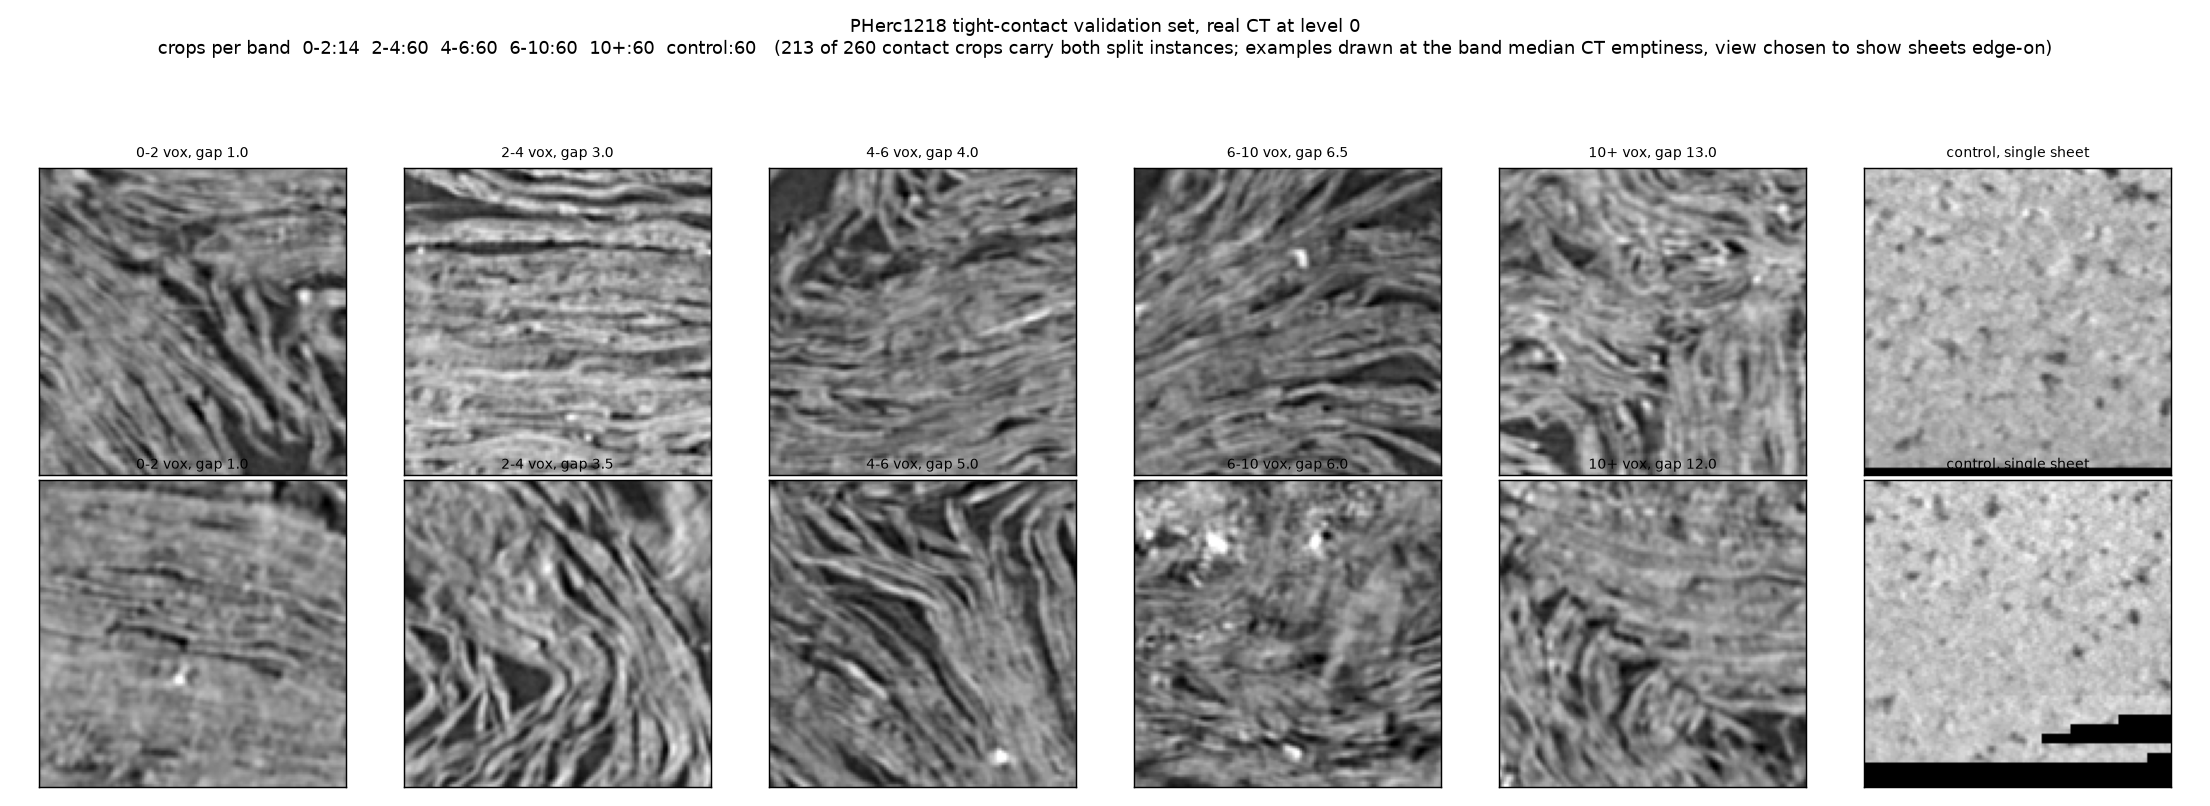
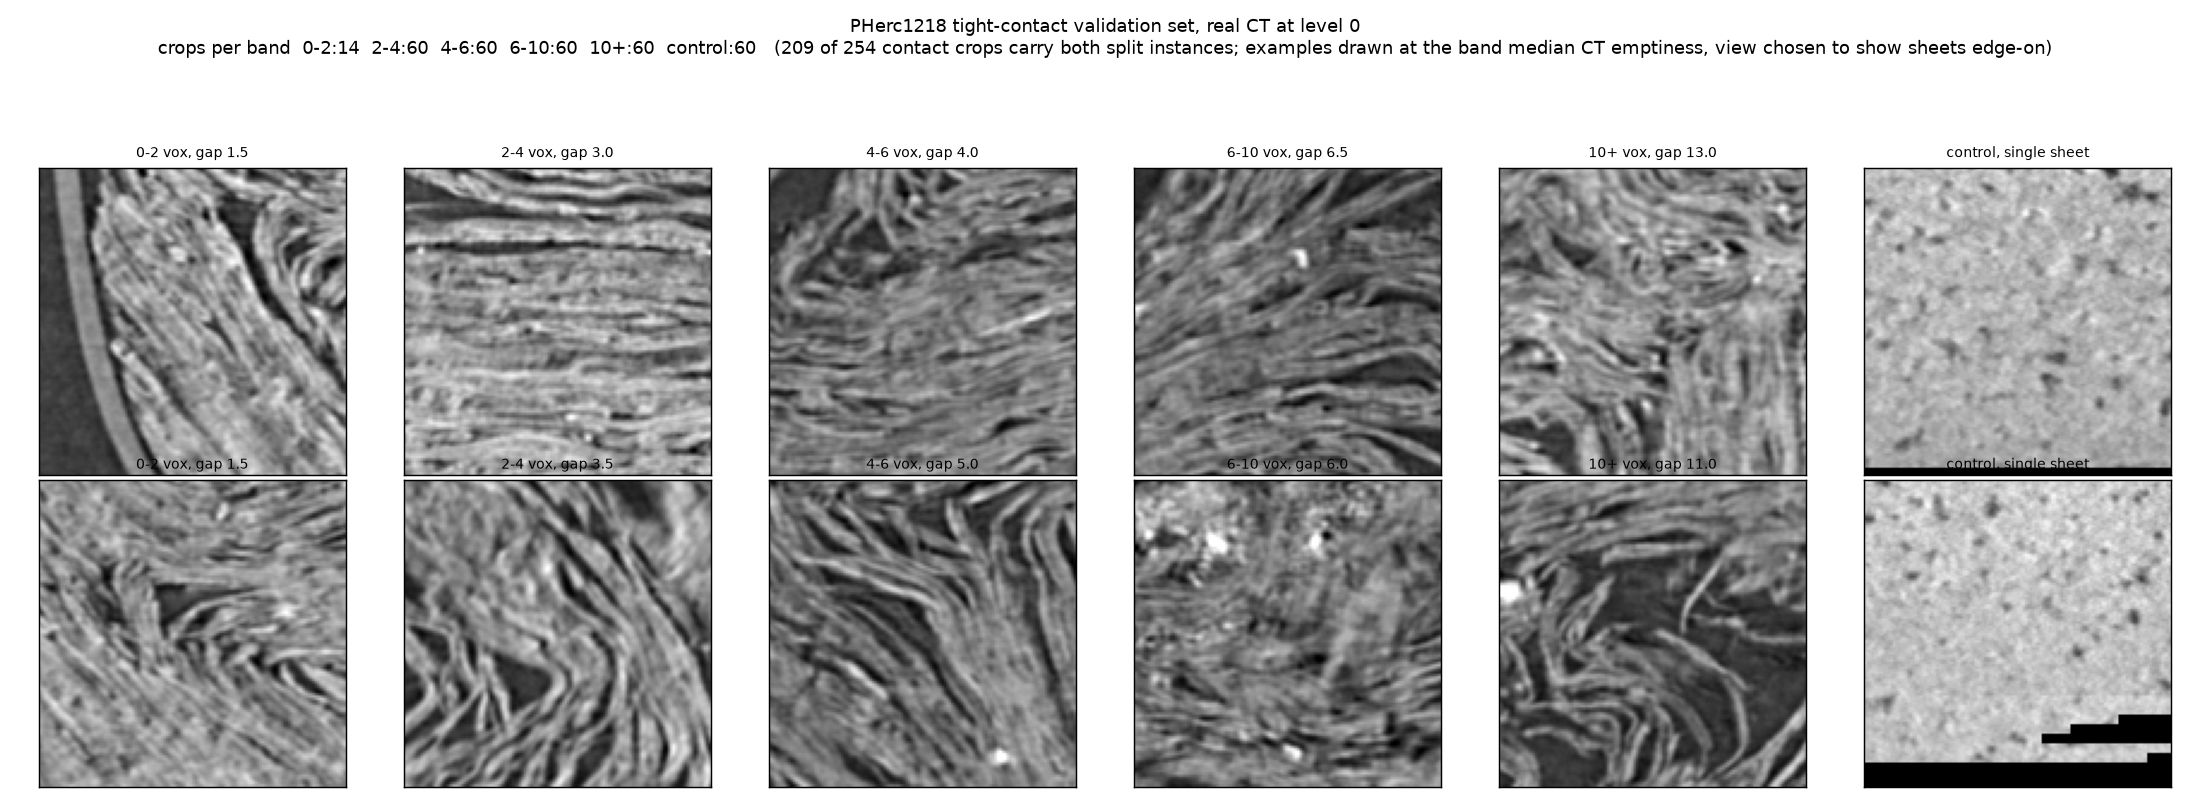
docs: regenerate the band figure from authoritative membership

Changed region(s): [[0.0, 0.1861, 0.1561, 0.9926], [0.6557, 0.5893, 0.843, 0.9926]]

diff --git a/results/tightgap1218/p11_final.py b/results/tightgap1218/p11_final.py
@@ -41,8 +41,12 @@ def best_view(v):
     return cands[int(np.argmax(e))]
 
 
+import os
+AUTH = set(json.load(open(OUT + "/membership_replay.json"))["authoritative"])
 byband = {}
 for f in sorted(glob.glob(OUT + "/crops/*.npz")):
+    if os.path.basename(f)[:-4] not in AUTH:
+        continue
     d = np.load(f, allow_pickle=True)
     if int(d.get("A_id", -1)) < 0:
         continue
@@ -74,7 +78,7 @@ for i in range(2):
     ax.set_xticks([]); ax.set_yticks([])
 
 c = json.load(open(OUT + "/crops_summary.json"))["realised"]
-s = json.load(open(OUT + "/labels_summary.json"))["contact"]
+s = json.load(open("/mnt/vesuvius/kaggle_tightgap1218/CORRECTION_v2.json"))["contact"]
 fig.suptitle("PHerc1218 tight-contact validation set, real CT at level 0\n"
              "crops per band  0-2:%d  2-4:%d  4-6:%d  6-10:%d  10+:%d  control:60   "
              "(%d of %d contact crops carry both split instances; examples drawn at the band median CT emptiness, view chosen to show sheets edge-on)"
